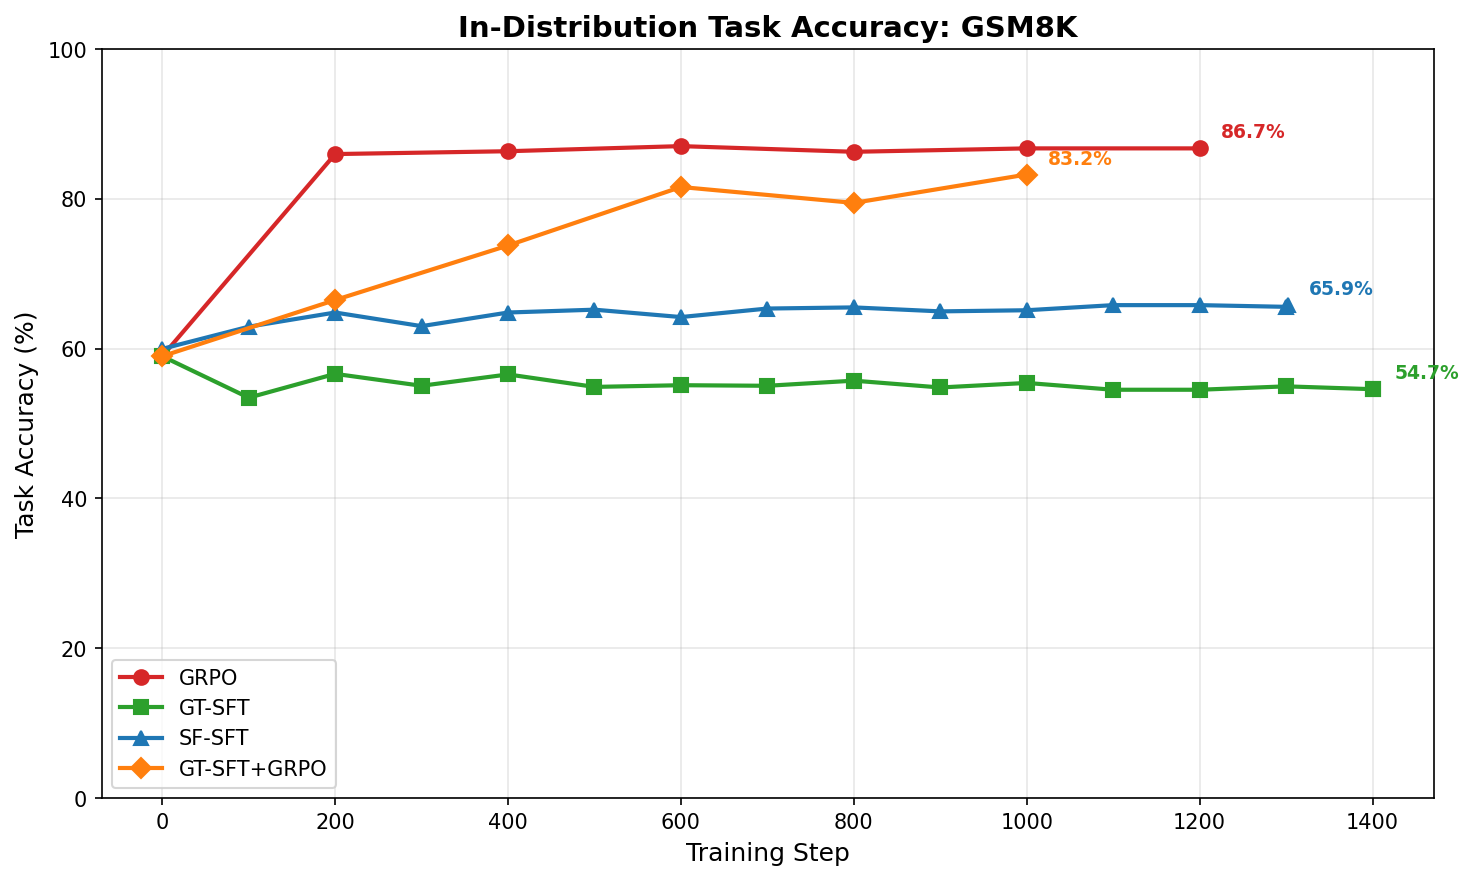
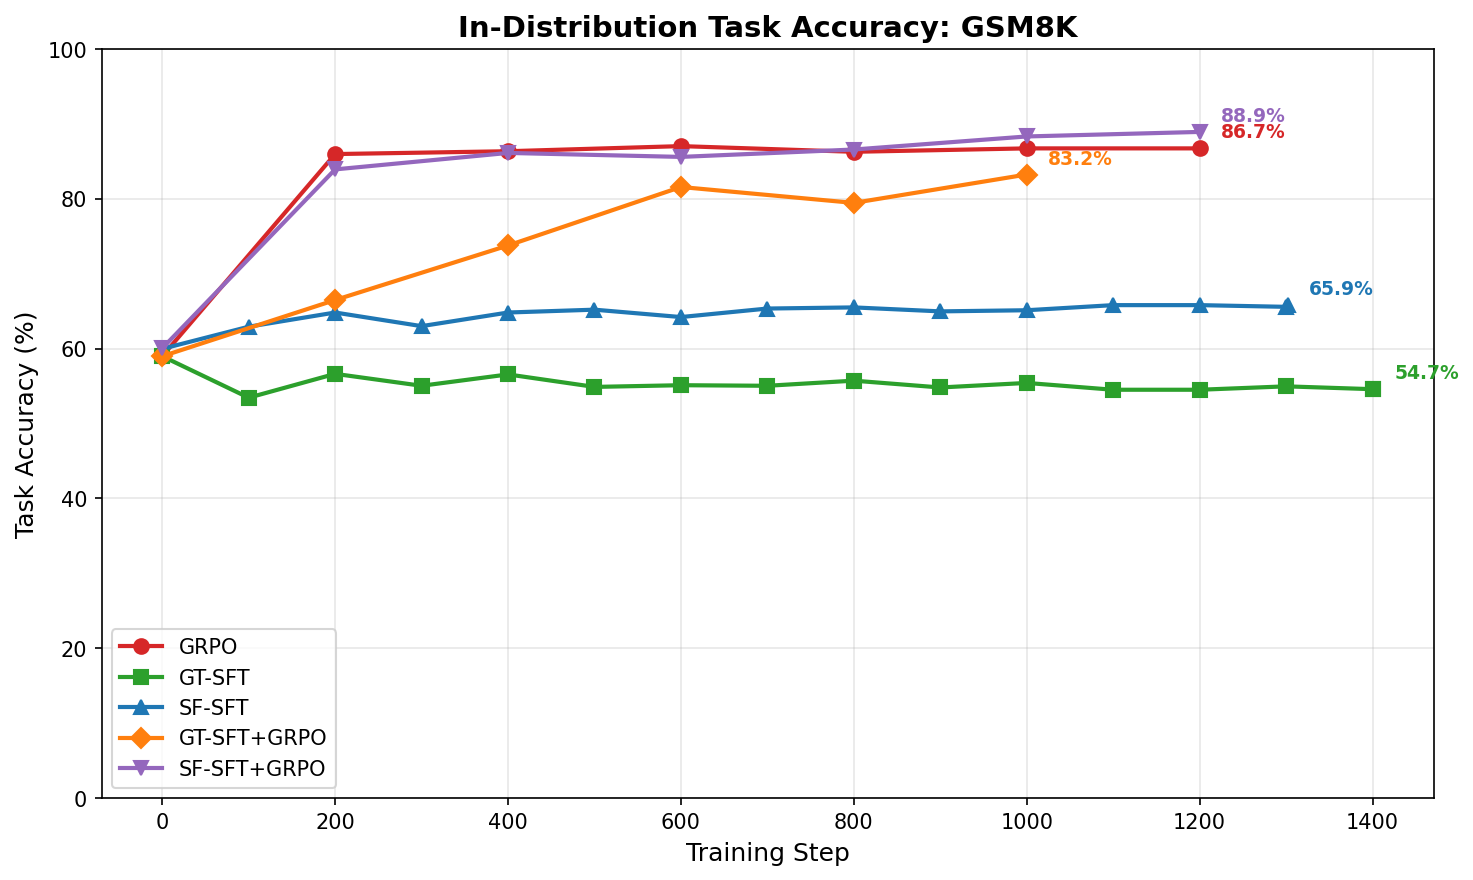
All 5 methods task accuracy complete: SF-SFT+GRPO beats pure GRPO on GSM8K
SF-SFT+GRPO results: GSM8K 88.9% (vs GRPO 87.0%), MATH 65.1% (ties),
TriviaQA 69.0%. GT-SFT+GRPO: GSM8K 83.2%, MATH 61.6%, TriviaQA 65.7%.
OOD forgetting eval in progress (6 sweep jobs queued).

diff --git a/STATUS.md b/STATUS.md
@@ -117,9 +117,9 @@ All checkpoint paths relative to `~/scratch/forgetting-llms/`.
 | GT-SFT+GRPO GSM8K | — | **Done** | Eval submitted |
 | GT-SFT+GRPO MATH | — | **Done** | Eval submitted |
 | GT-SFT+GRPO TriviaQA | — | **Done** | Eval submitted |
-| SF-SFT+GRPO GSM8K | — | — | Eval submitted |
-| SF-SFT+GRPO MATH | — | — | Eval submitted |
-| SF-SFT+GRPO TriviaQA | — | — | Eval submitted |
+| SF-SFT+GRPO GSM8K | — | **Done** | OOD eval in progress |
+| SF-SFT+GRPO MATH | — | **Done** | OOD eval in progress |
+| SF-SFT+GRPO TriviaQA | — | **Done** | OOD eval in progress |
 
 ---
 
@@ -141,16 +141,19 @@ All SFT variants show positive OOD delta (no forgetting). GRPO shows mild forget
 
 | Method | Dataset | Base | Best | Best Step | Trend |
 |--------|---------|------|------|-----------|-------|
-| GRPO | GSM8K | 59.0% | **87.0%** | 600 | +28pp |
+| SF-SFT+GRPO | GSM8K | 59.0% | **88.9%** | 1200 | +30pp |
+| GRPO | GSM8K | 59.0% | 87.0% | 600 | +28pp |
 | GT-SFT+GRPO | GSM8K | 59.0% | 83.2% | 1000 | +24pp |
 | SF-SFT | GSM8K | 60.0% | 65.9% | 1302 | +6pp, gradual |
 | GT-SFT | GSM8K | 59.0% | 56.6% | 200 | -4pp, drops |
-| GRPO | MATH | 11.0% | **65.1%** | 800 | +54pp |
+| SF-SFT+GRPO | MATH | 11.0% | **65.1%** | 800 | +54pp |
+| GRPO | MATH | 11.0% | 65.1% | 800 | +54pp |
 | GT-SFT+GRPO | MATH | 11.0% | 61.6% | 800 | +51pp |
 | GT-SFT | MATH | 11.0% | 28.9% | 300 | +18pp, plateaus |
 | SF-SFT | MATH | 11.0% | 10.8% | 588 | flat (43% teacher) |
-| GRPO | TriviaQA | 38.4% | **99.7%** | 1000 | +61pp, saturates |
-| GT-SFT+GRPO | TriviaQA | 38.4% | 43.6% | 800 | +5pp |
+| GRPO | TriviaQA | 38.4% | 99.7% | 1000 | +61pp, saturates |
+| SF-SFT+GRPO | TriviaQA | 38.4% | **69.0%** | 2000 | +31pp |
+| GT-SFT+GRPO | TriviaQA | 38.4% | 65.7% | 1400 | +27pp |
 | SF-SFT | TriviaQA | 38.1% | 39.3% | 400 | +1pp |
 | GT-SFT | TriviaQA | 38.1% | 37.4% | 600 | flat |
 
@@ -196,7 +199,7 @@ All SFT variants show positive OOD delta (no forgetting). GRPO shows mild forget
 
 1. **GRPO excels at task learning, SFT methods do not.** GRPO improves task accuracy dramatically (GSM8K +28pp, MATH +54pp, TriviaQA +61pp). GT-SFT either drops or barely moves task accuracy because it overwrites the model's native `<think>` reasoning with short-form answers.
 
-2. **GT-SFT+GRPO nearly matches pure GRPO.** SFT warmstart + GRPO achieves 83% on GSM8K (vs pure GRPO 87%) and 62% on MATH (vs 65%). The SFT warmstart doesn't hurt RL learning much — key question is whether it reduces OOD forgetting (eval pending).
+2. **SF-SFT+GRPO matches or beats pure GRPO on task accuracy.** SF-SFT warmstart + GRPO achieves 88.9% on GSM8K (vs pure GRPO 87.0%), ties on MATH (65.1% vs 65.1%), and reaches 69.0% on TriviaQA (vs GRPO 99.7%). GT-SFT+GRPO slightly trails: 83.2%, 61.6%, 65.7%. Key question: does SFT warmstart reduce OOD forgetting? (eval in progress).
 
 3. **SF-SFT partially recovers task accuracy.** By training on Qwen3-32B teacher solutions that preserve `<think>`, SF-SFT achieves 66% on GSM8K (vs GT-SFT 55%, base 59%). Still far below GRPO (87%). However, SF-SFT fails on MATH (43% teacher pass rate bottleneck).
 
@@ -220,10 +223,10 @@ Using SFT step 500 (~1 epoch) as warmstart, then GRPO for 15 epochs. Tests wheth
 |-----------|-------|-------|----------------|----------|
 | GT-SFT+GRPO GSM8K | 1,199 | 5 | **83.2%** (step 1000) | Pending |
 | GT-SFT+GRPO MATH | 892 | 4 | **61.6%** (step 800) | Pending |
-| GT-SFT+GRPO TriviaQA | 2,253 | 11 | **43.6%** (step 800) | Pending |
-| SF-SFT+GRPO GSM8K | 1,253 | 6 | Pending | Pending |
-| SF-SFT+GRPO MATH | 987 | 4 | Pending | Pending |
-| SF-SFT+GRPO TriviaQA | 2,201 | 11 | Pending | Pending |
+| GT-SFT+GRPO TriviaQA | 2,253 | 11 | **65.7%** (step 1400) | Pending |
+| SF-SFT+GRPO GSM8K | 1,253 | 6 | **88.9%** (step 1200) | Pending |
+| SF-SFT+GRPO MATH | 987 | 4 | **65.1%** (step 800) | Pending |
+| SF-SFT+GRPO TriviaQA | 2,201 | 11 | **69.0%** (step 2000) | Pending |
 
 ---
 
